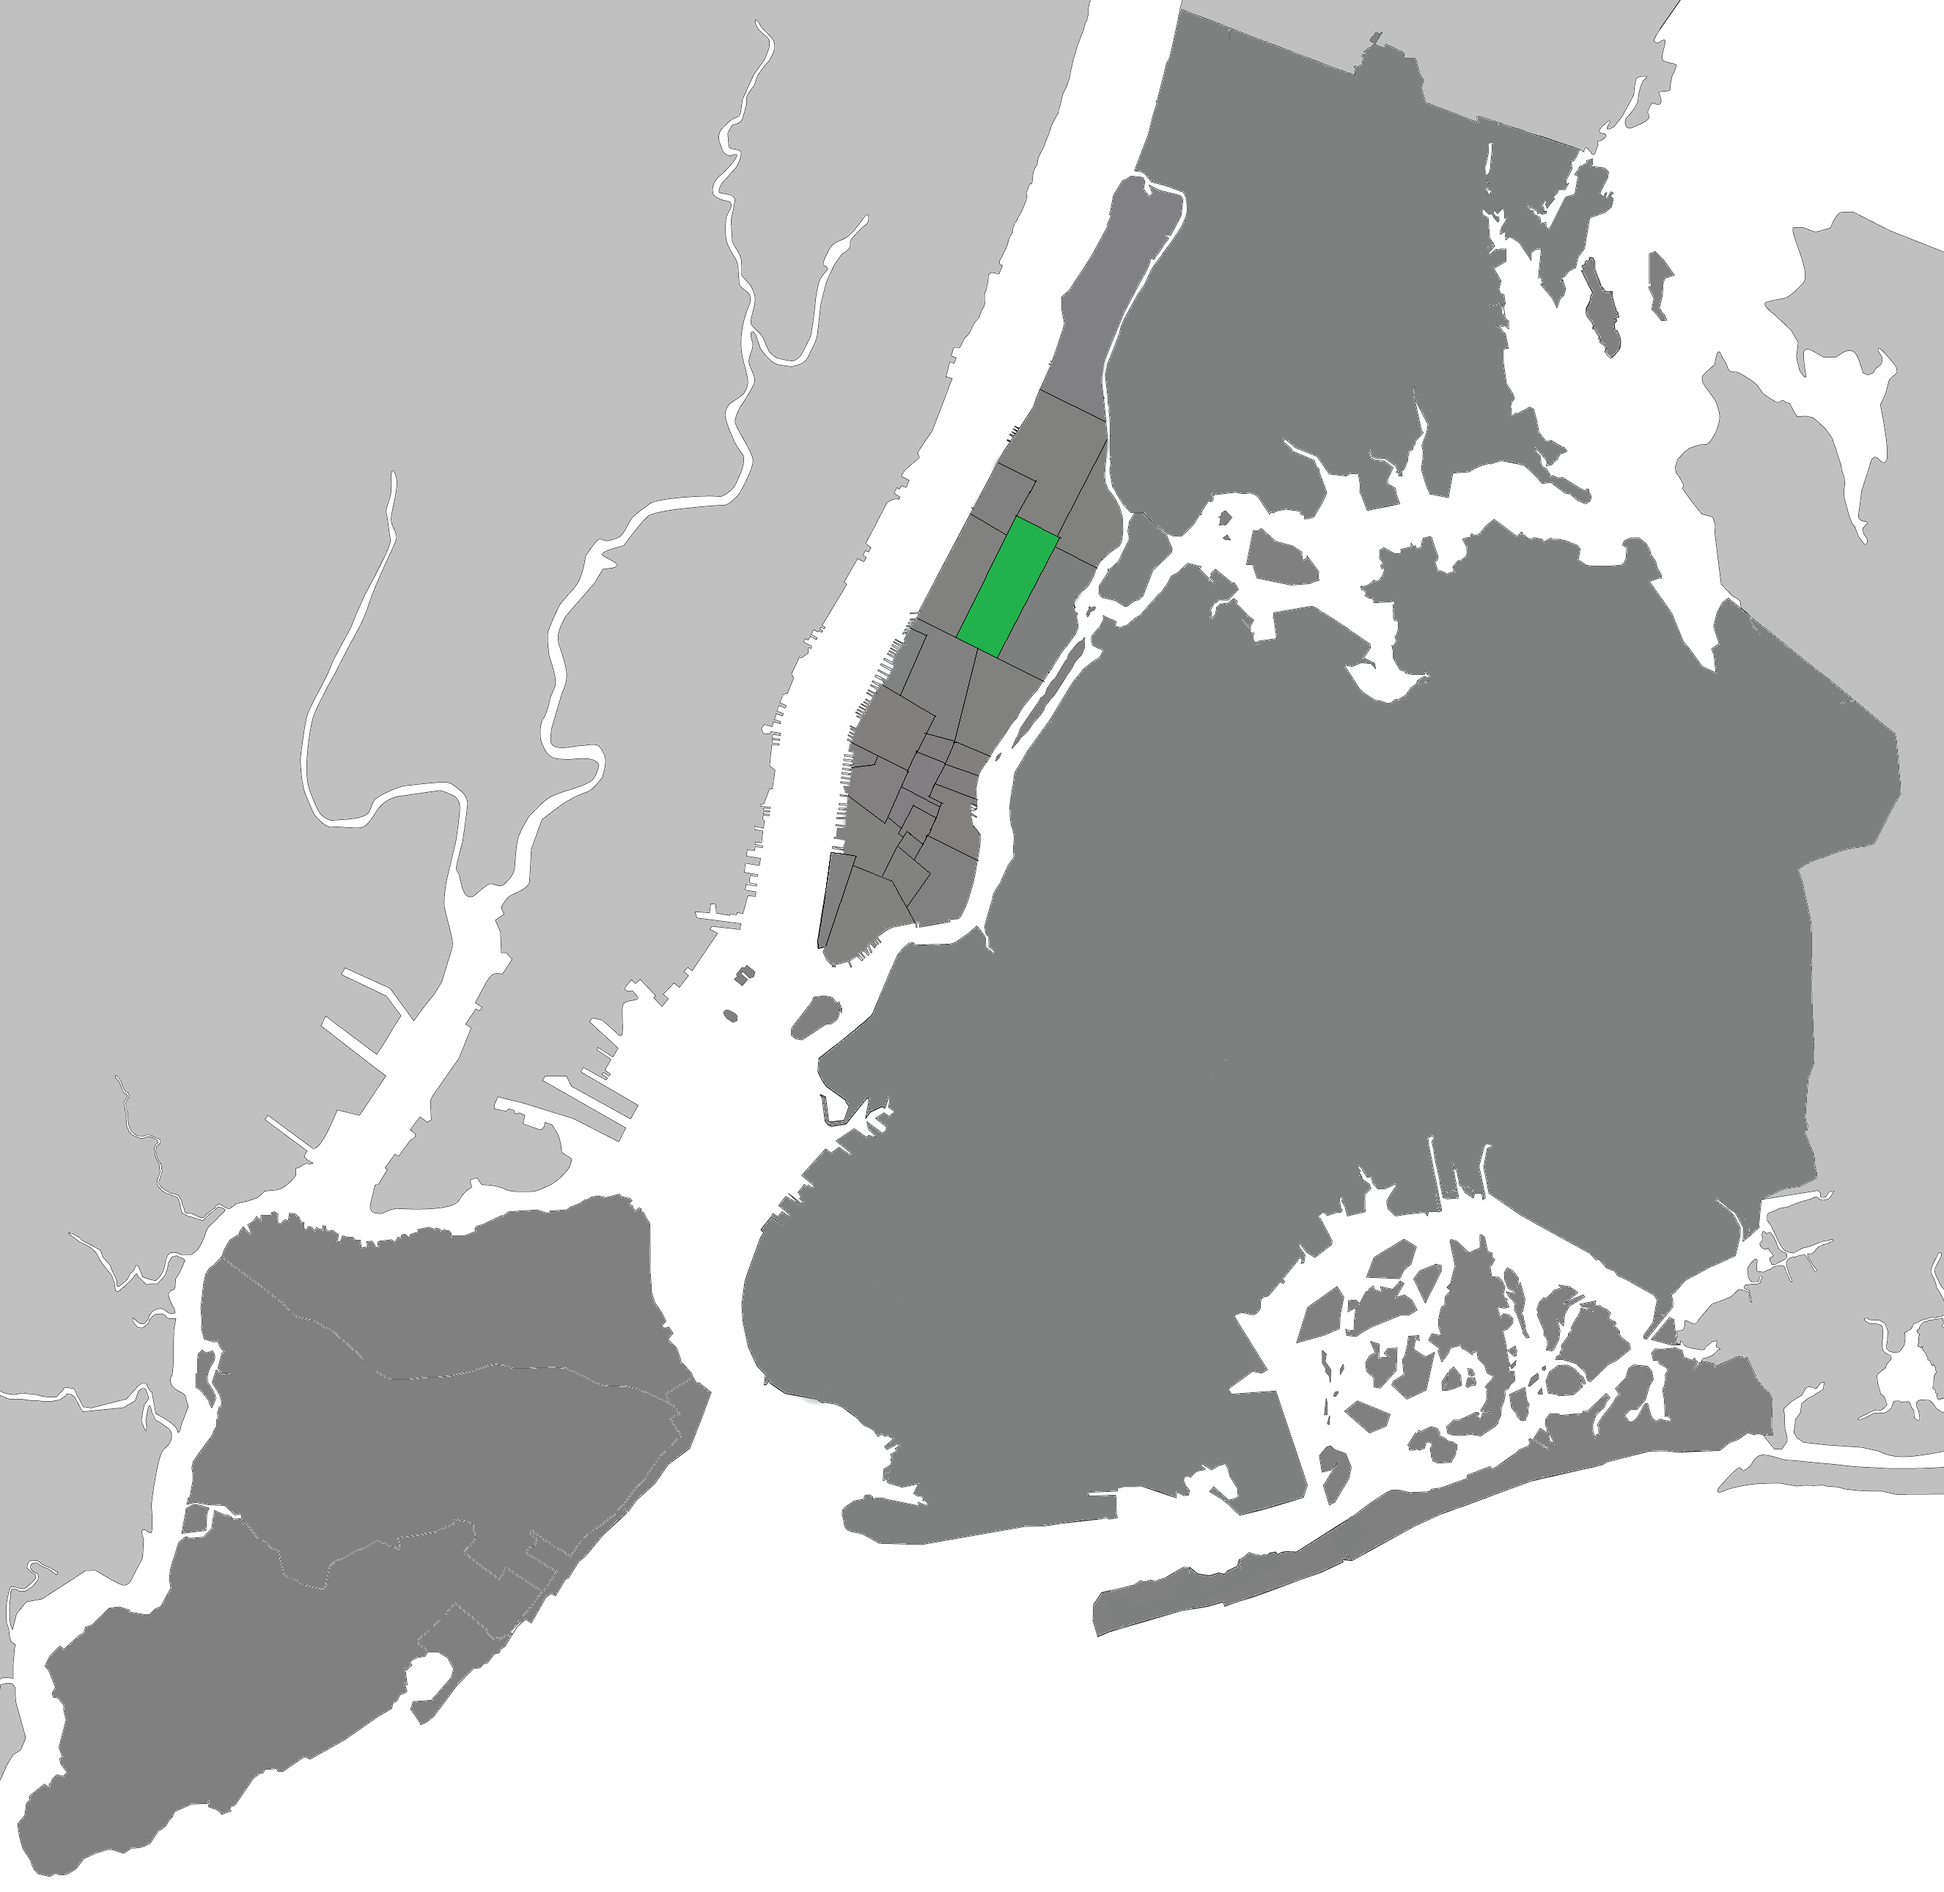
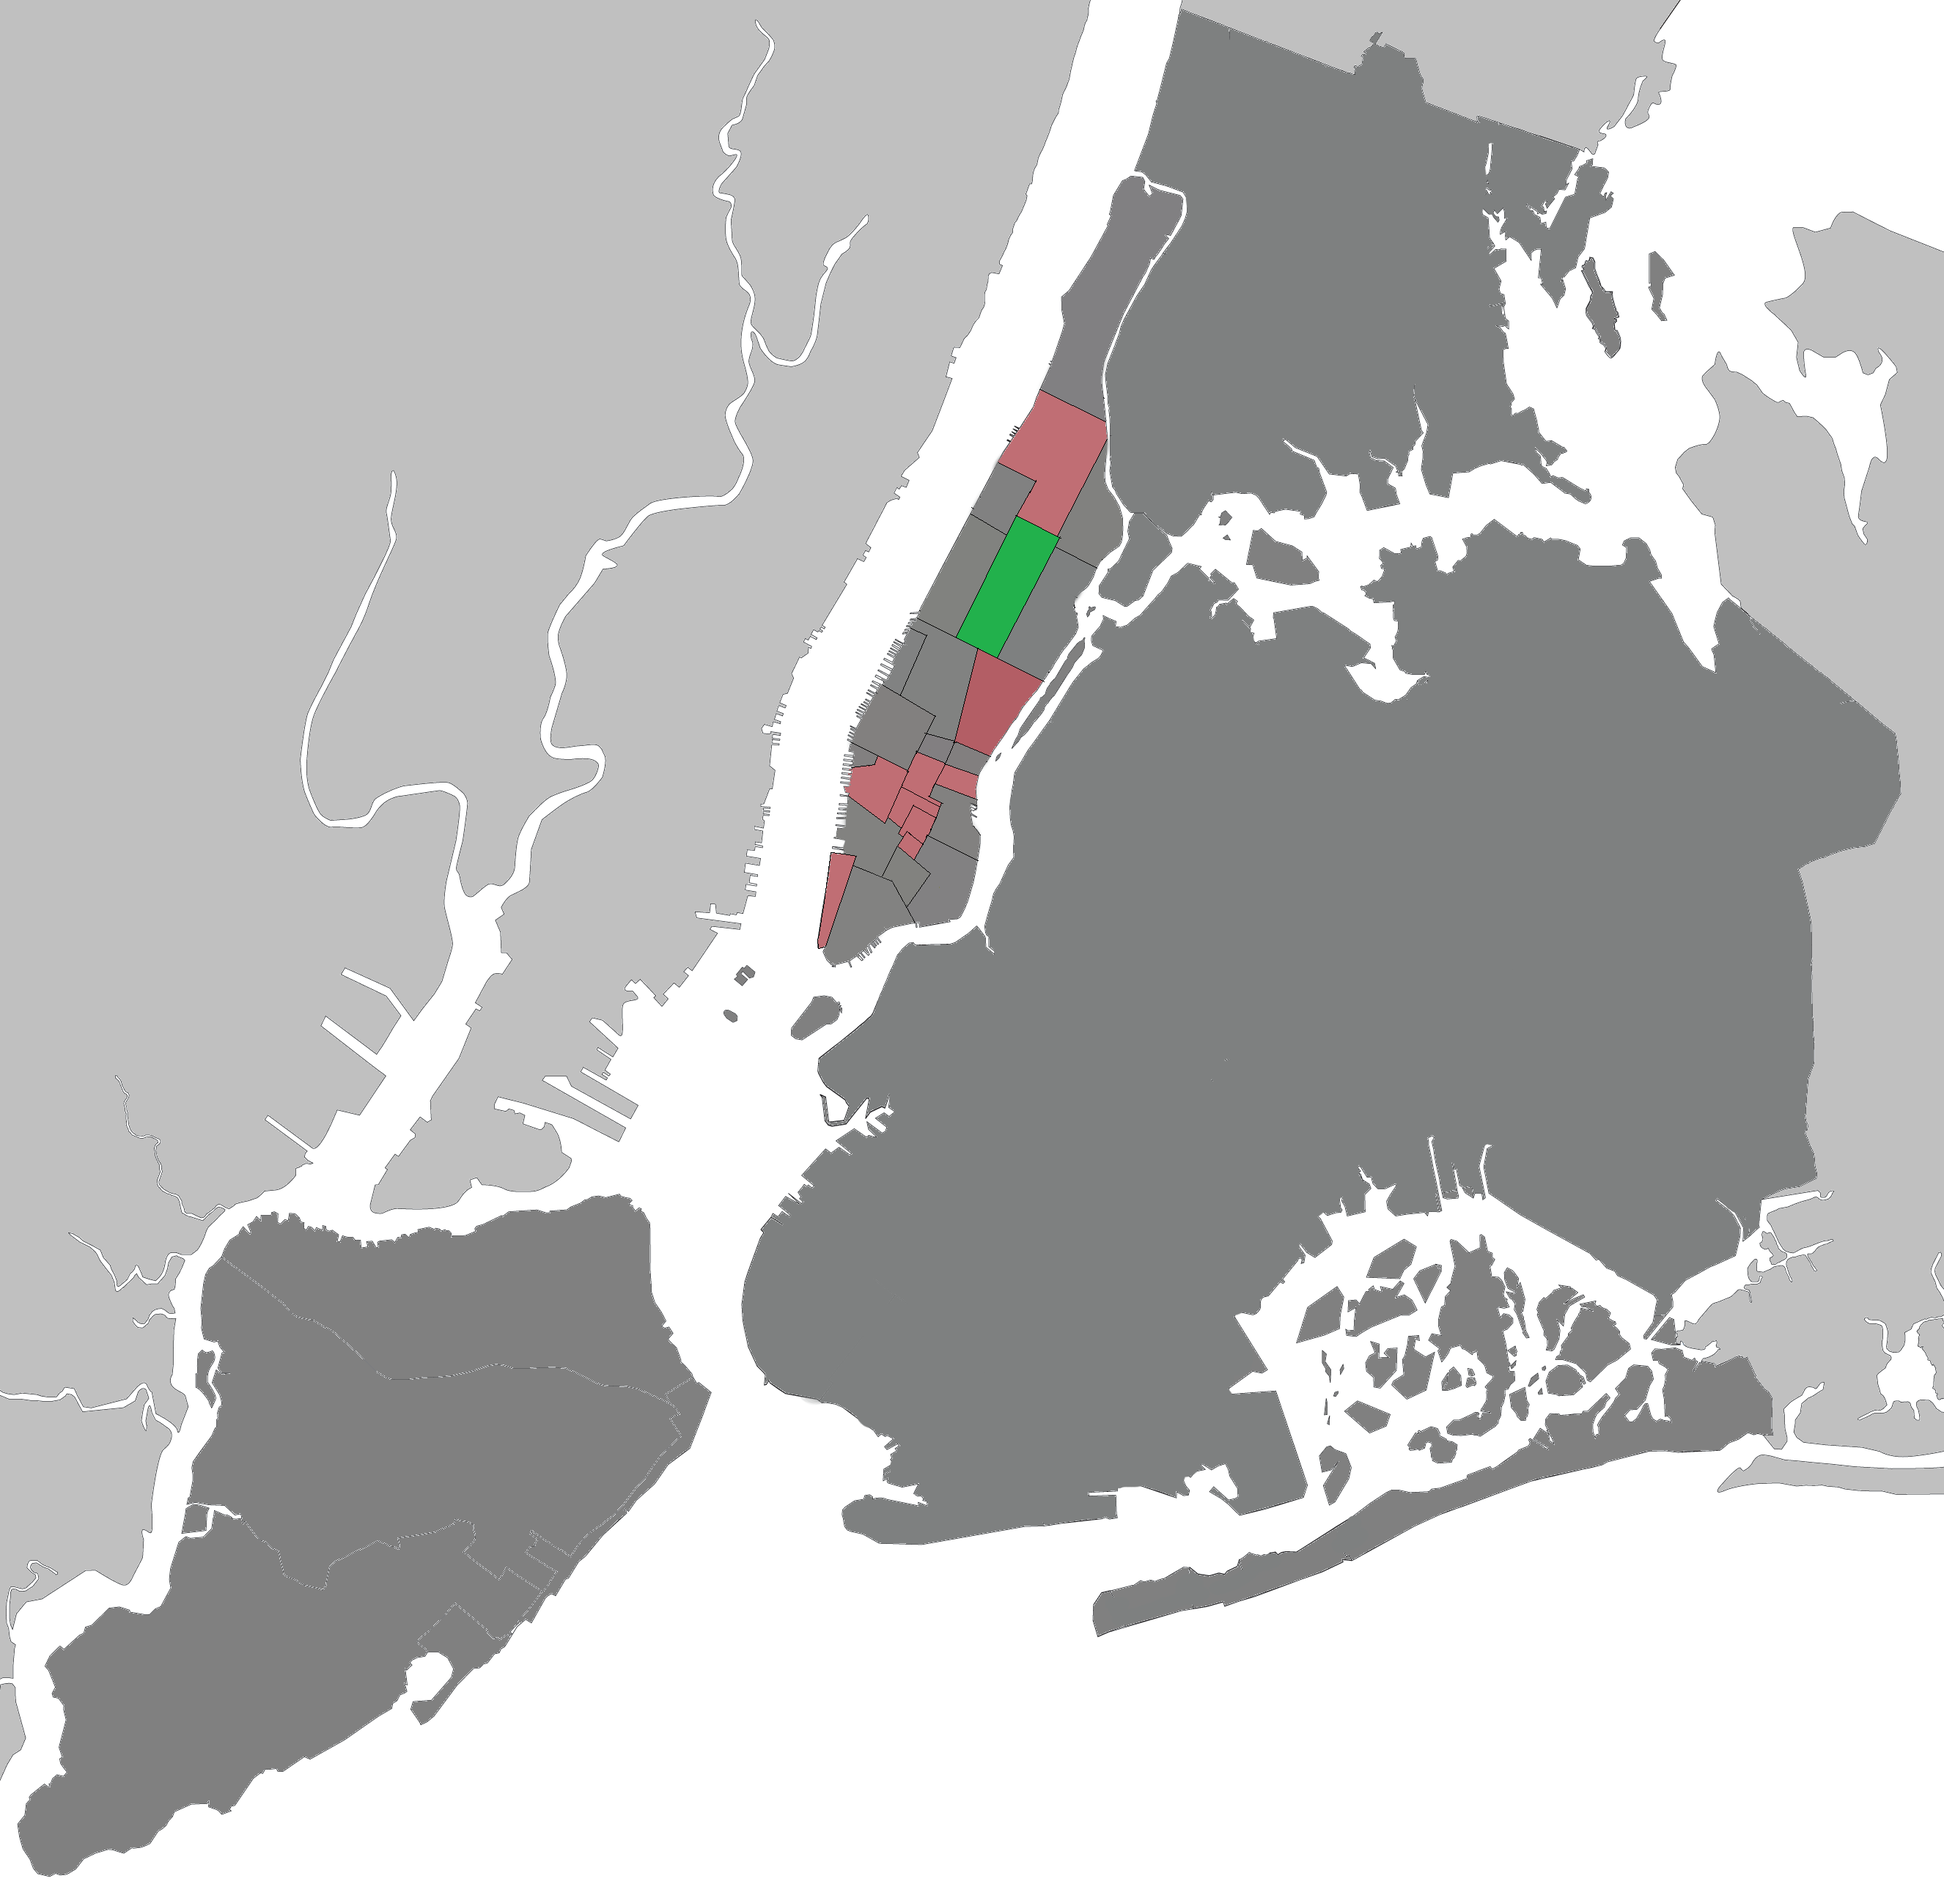
minor fixes, bug still present

diff --git a/YelpNYC/colorize.py b/YelpNYC/colorize.py
@@ -8,44 +8,45 @@ def colorize(BusinessName, average):
         image = Image.open('map/manhattan.png') if (os.path.isfile('map/NYC.png') == False) else Image.open('map/NYC.png')
         image = image.convert('RGBA')
         manhattanBIN = np.array(image) ##turns image into an array of pixel values
-        red, green, blue, alpha = manhattanBIN.T ##get the RGBA of the image
+        red, green, blue = manhattanBIN[:,:,0], manhattanBIN[:,:,1],manhattanBIN[:,:,2]
         print average
         with open('map/Manhattan.csv', 'rb') as csvfile:
             spamreader = csv.reader(csvfile, delimiter=',', quotechar='|')
             for row in spamreader:
                 if row[0] == BusinessName:
-                    print row[0] == BusinessName
+                    print row[0], row[1], row[2], row[3]
                     r = int(row[1])
                     g = int(row[2])
                     b = int(row[3])
                     areaColor = (red == r) & (green == g) & (blue == b) ##select the RGB color from the CSV
                     ##set color based on average range
                     if average == 1.00 and average < 1.20:
-                        manhattanBIN[..., :-1][areaColor.T] = (255, 189, 191)
+                        manhattanBIN[:, :, :3][areaColor] = (255, 189, 191)
                     if average == 1.20 and average < 1.40:
-                        manhattanBIN[..., :-1][areaColor.T] = (242, 173, 176)
+                        manhattanBIN[:, :, :3][areaColor] = (242, 173, 176)
                     if average == 1.40 and average < 1.60:
-                        manhattanBIN[..., :-1][areaColor.T] = (229, 157, 161)
+                        manhattanBIN[:, :, :3][areaColor] = (229, 157, 161)
                     if average == 1.60 and average < 1.80:
-                        manhattanBIN[..., :-1][areaColor.T] = (217, 141, 146)
+                        manhattanBIN[:, :, :3][areaColor] = (217, 141, 146)
                     if average == 1.80 and average < 2.00:
-                        manhattanBIN[..., :-1][areaColor.T] = (204, 126, 131)
+                        manhattanBIN[:, :, :3][areaColor] = (204, 126, 131)
                     if average == 2.00 and average < 2.20:
-                        manhattanBIN[..., :-1][areaColor.T] = (192, 110, 116)
+                        manhattanBIN[:, :, :3][areaColor] = (192, 110, 116)
                     if average == 2.20 and average < 2.40:
-                        manhattanBIN[..., :-1][areaColor.T] = (190, 53, 230)
+                        manhattanBIN[:, :, :3][areaColor] = (179, 94, 101)
                     if average == 2.40 and average < 2.60:
-                        manhattanBIN[..., :-1][areaColor.T] = (167, 78, 87)
+                        manhattanBIN[:, :, :3][areaColor] = (167, 78, 87)
                     if average == 2.60 and average < 2.80:
-                        manhattanBIN[..., :-1][areaColor.T] = (154, 63, 72)
+                        manhattanBIN[:, :, :3][areaColor] = (154, 63, 72)
                     if average == 2.80 and average < 3.00:
-                        manhattanBIN[..., :-1][areaColor.T] = (142, 47,57)
+                        manhattanBIN[:, :, :3][areaColor] = (142, 47,57)
                     if average == 3.00 and average < 3.20:
-                        manhattanBIN[..., :-1][areaColor.T] = (129, 31, 42)
+                        manhattanBIN[:, :, :3][areaColor] = (129, 31, 42)
                     if average == 3.20 and average < 3.40:
-                        manhattanBIN[..., :-1][areaColor.T] = (117, 16, 28)
+                        manhattanBIN[:, :, :3][areaColor] = (117, 16, 28)
                     if average == 3.40 and average < 3.60:
-                        manhattanBIN[..., :-1][areaColor.T] = (86, 7, 17)
+                        manhattanBIN[:, :, :3][areaColor] = (86, 7, 17)
+            csvfile.close()
         im = Image.fromarray(manhattanBIN)
         im.save('map/NYC.png')
     except:

diff --git a/YelpNYC/YelpAnalyze.py b/YelpNYC/YelpAnalyze.py
@@ -94,7 +94,7 @@ class analyzer(object):
         for key, avg in self.AreaAverages.iteritems():
             colorize(key, avg)
         try:
-            image = Image.open('map/heat_map.png')
+            image = Image.open('map/NYC.png')
             image.show()
         except Exception, e:
             print str(e)
